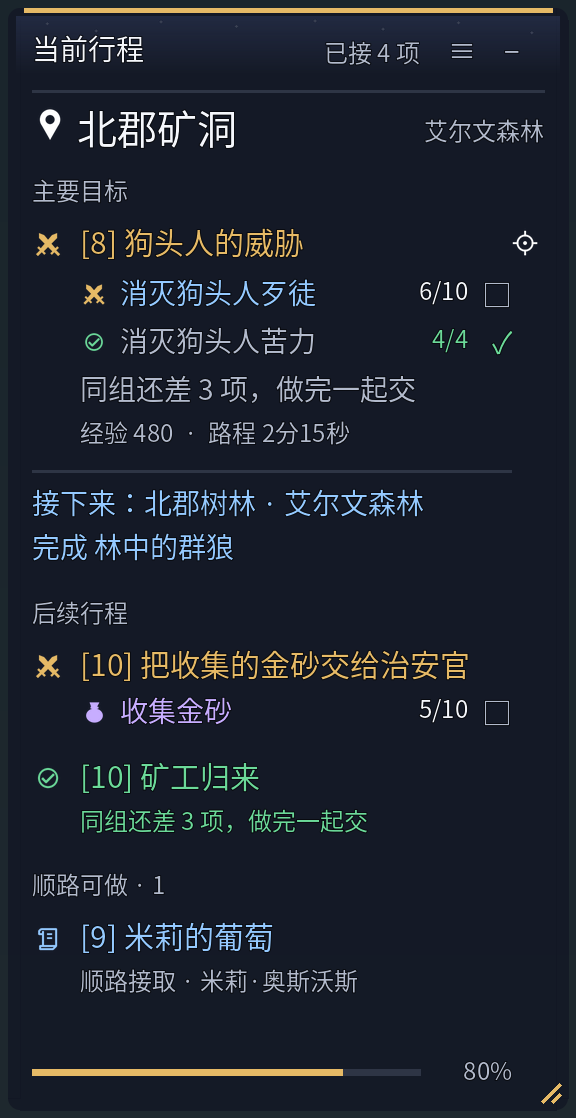
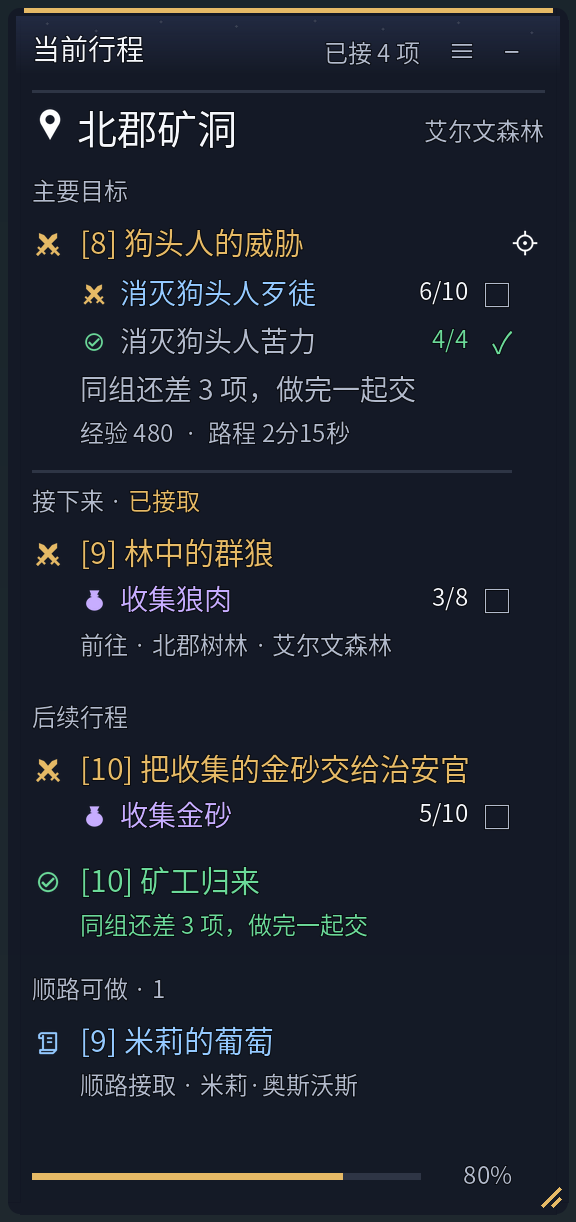
Show next quest status and objective progress in the HUD

diff --git a/docs/UI_STYLE.md b/docs/UI_STYLE.md
@@ -43,7 +43,7 @@ HUD 背景透明度为 80%，正文保持清晰；主面板底色透明度为 96
 - 面板圆角 6 px，按钮圆角 4 px；分隔线 1 px。列表不逐项叠加重边框和大卡片。
 - 普通按钮高 28 px；图标操作区至少 24 px，使用中性悬停底。相邻按钮间隔 8 px。
 - 地点和区域同排：地点在左，区域以辅助字在右，两者至少间隔 12 px。长名称按可用宽度换行。
-- “接下来：地点”与下一行行动说明左对齐，额外行距 4 px；整组距上方分隔线 8 px，距下方“后续行程”16 px，均随字号缩放。
+- “接下来”沿用二级分组样式，同排用状态色显示当前接取状态；下方复用任务行，展示等级、任务名、内缩目标图标与数量，以及目的地。标题与目标间隔 4 px；整组距上方分隔线 8 px，距下方“后续行程”16 px，均随字号缩放。计划交付但当前尚未完成时写“完成后交付”，状态仍按任务日志显示。
 - 只在实际滚动内容中预留 16 px 原生滚动条空间；其他区域使用完整内容宽度。
 - 保留 HUD 鼠标调整宽高和小地图对齐。高度由文字决定，长内容放在已有滚动区；不靠隐藏任务信息缩小面板。
 
